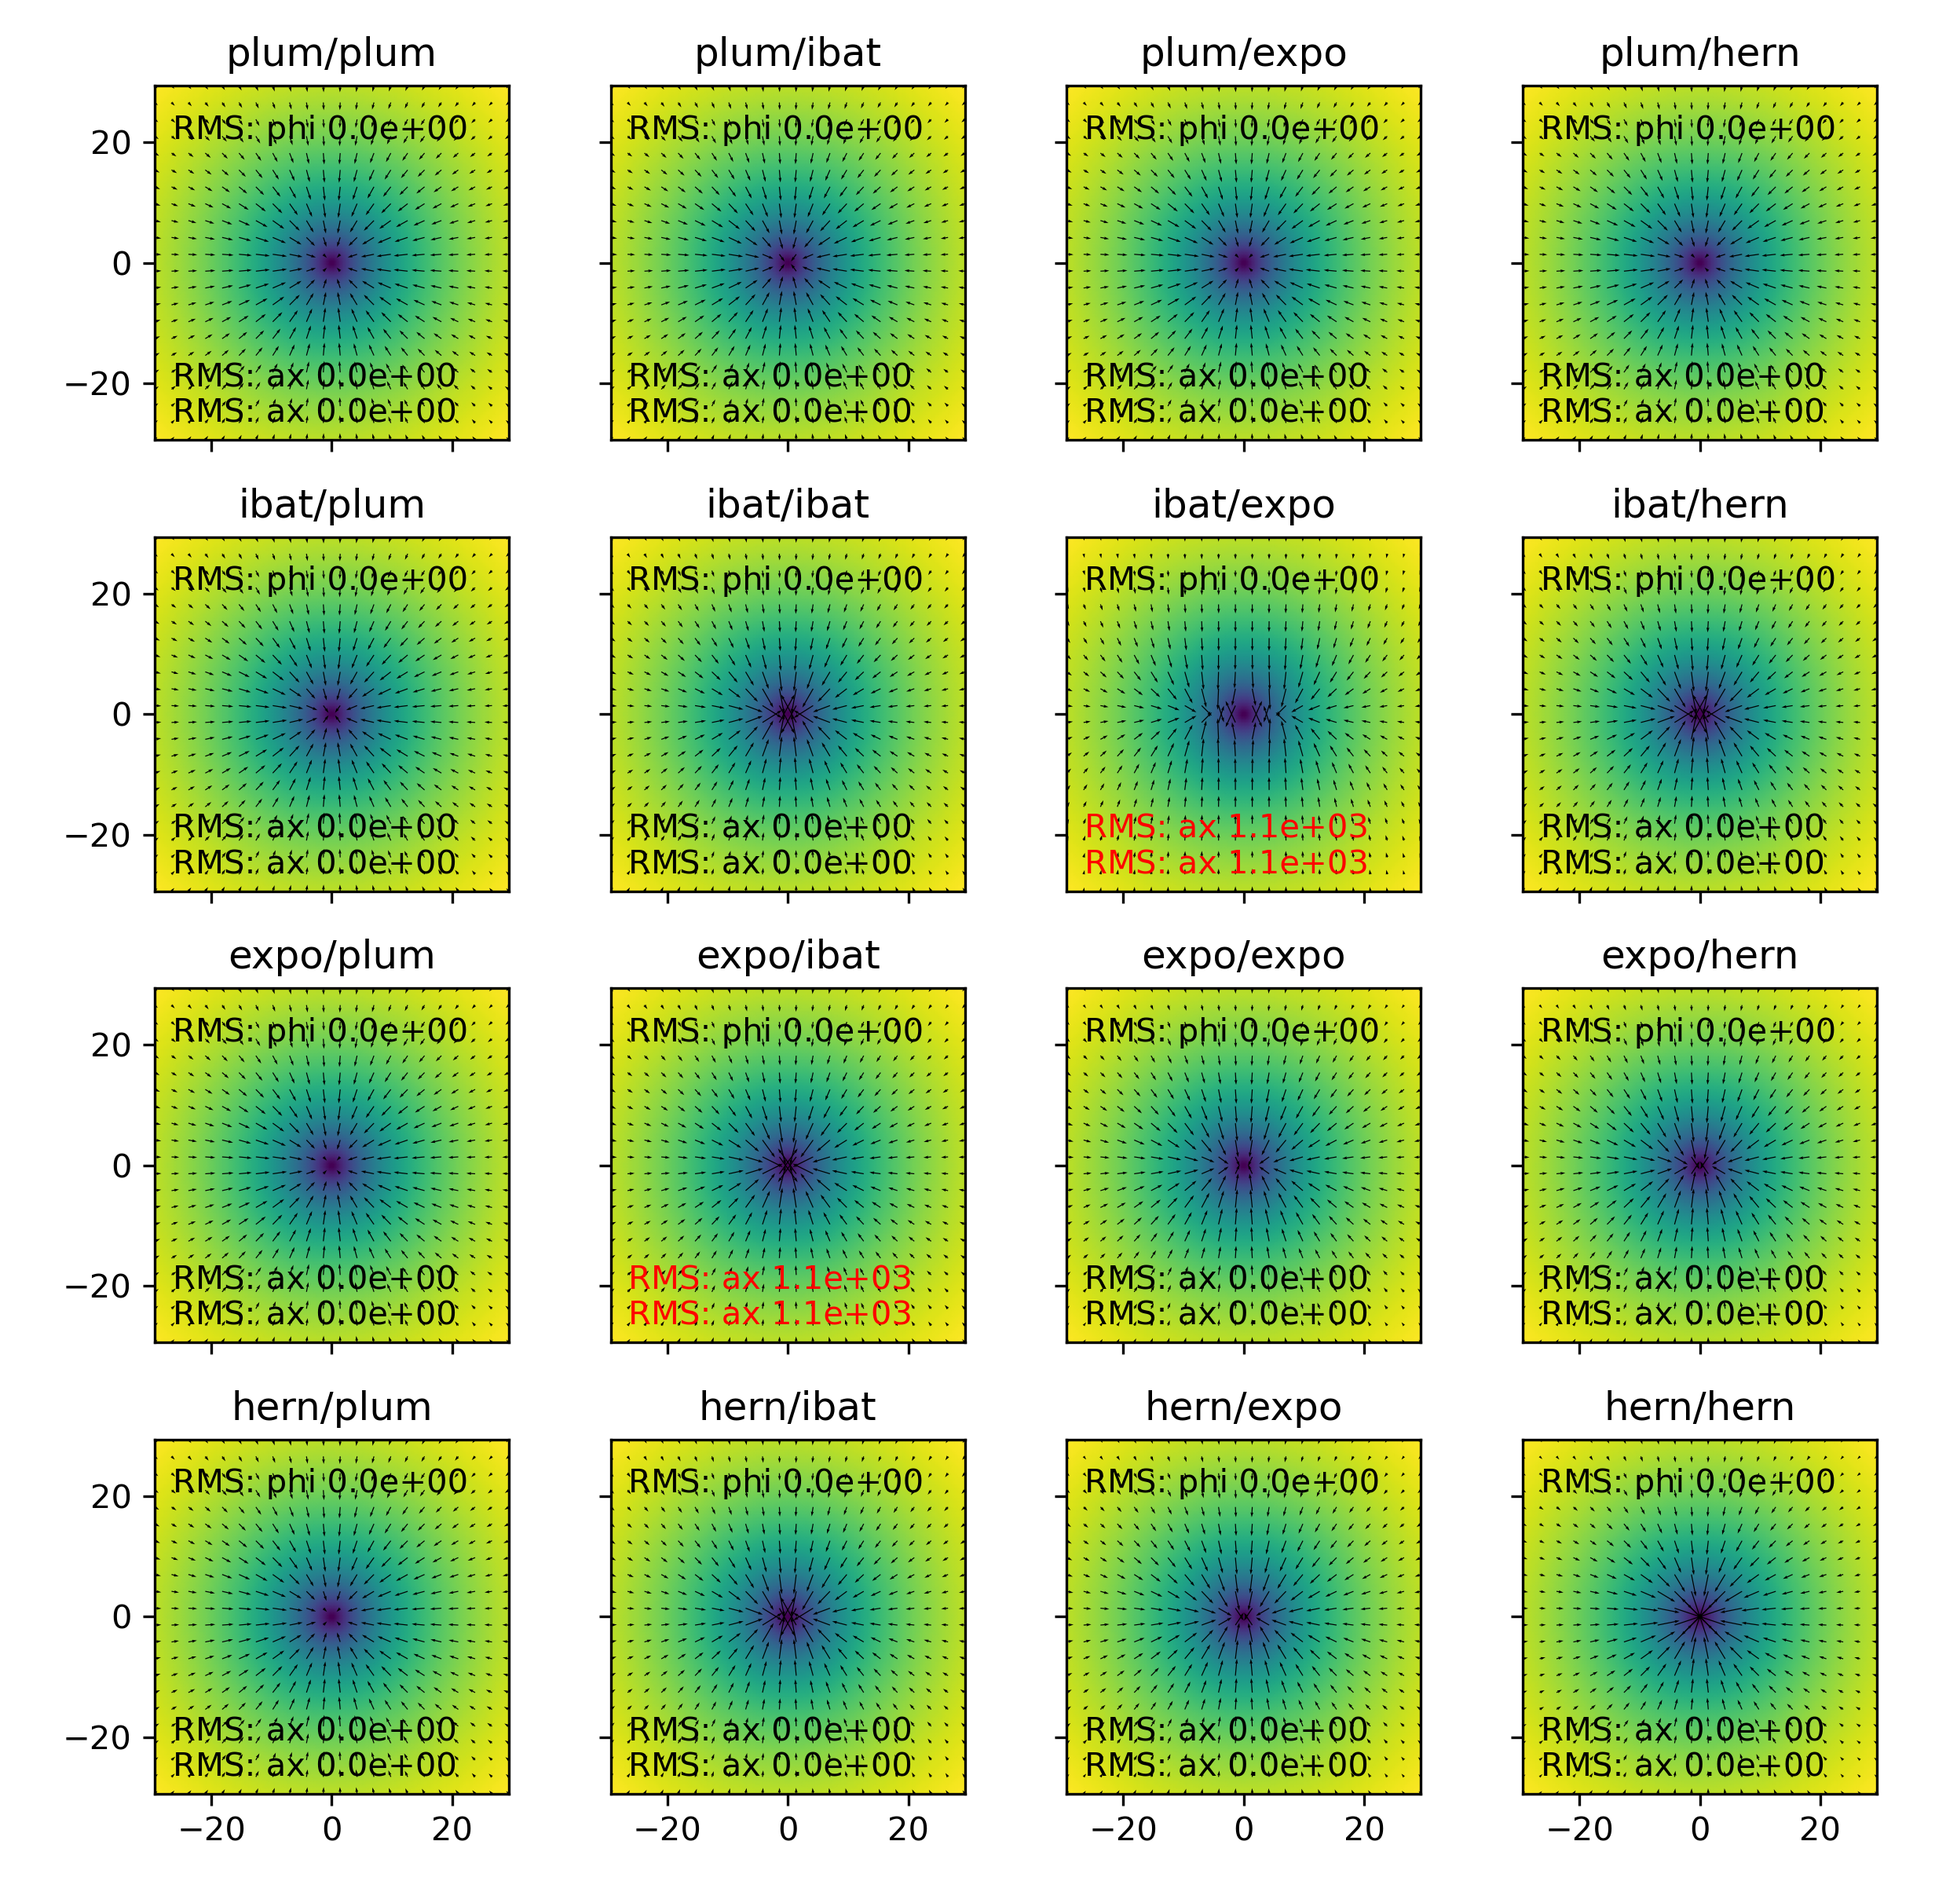
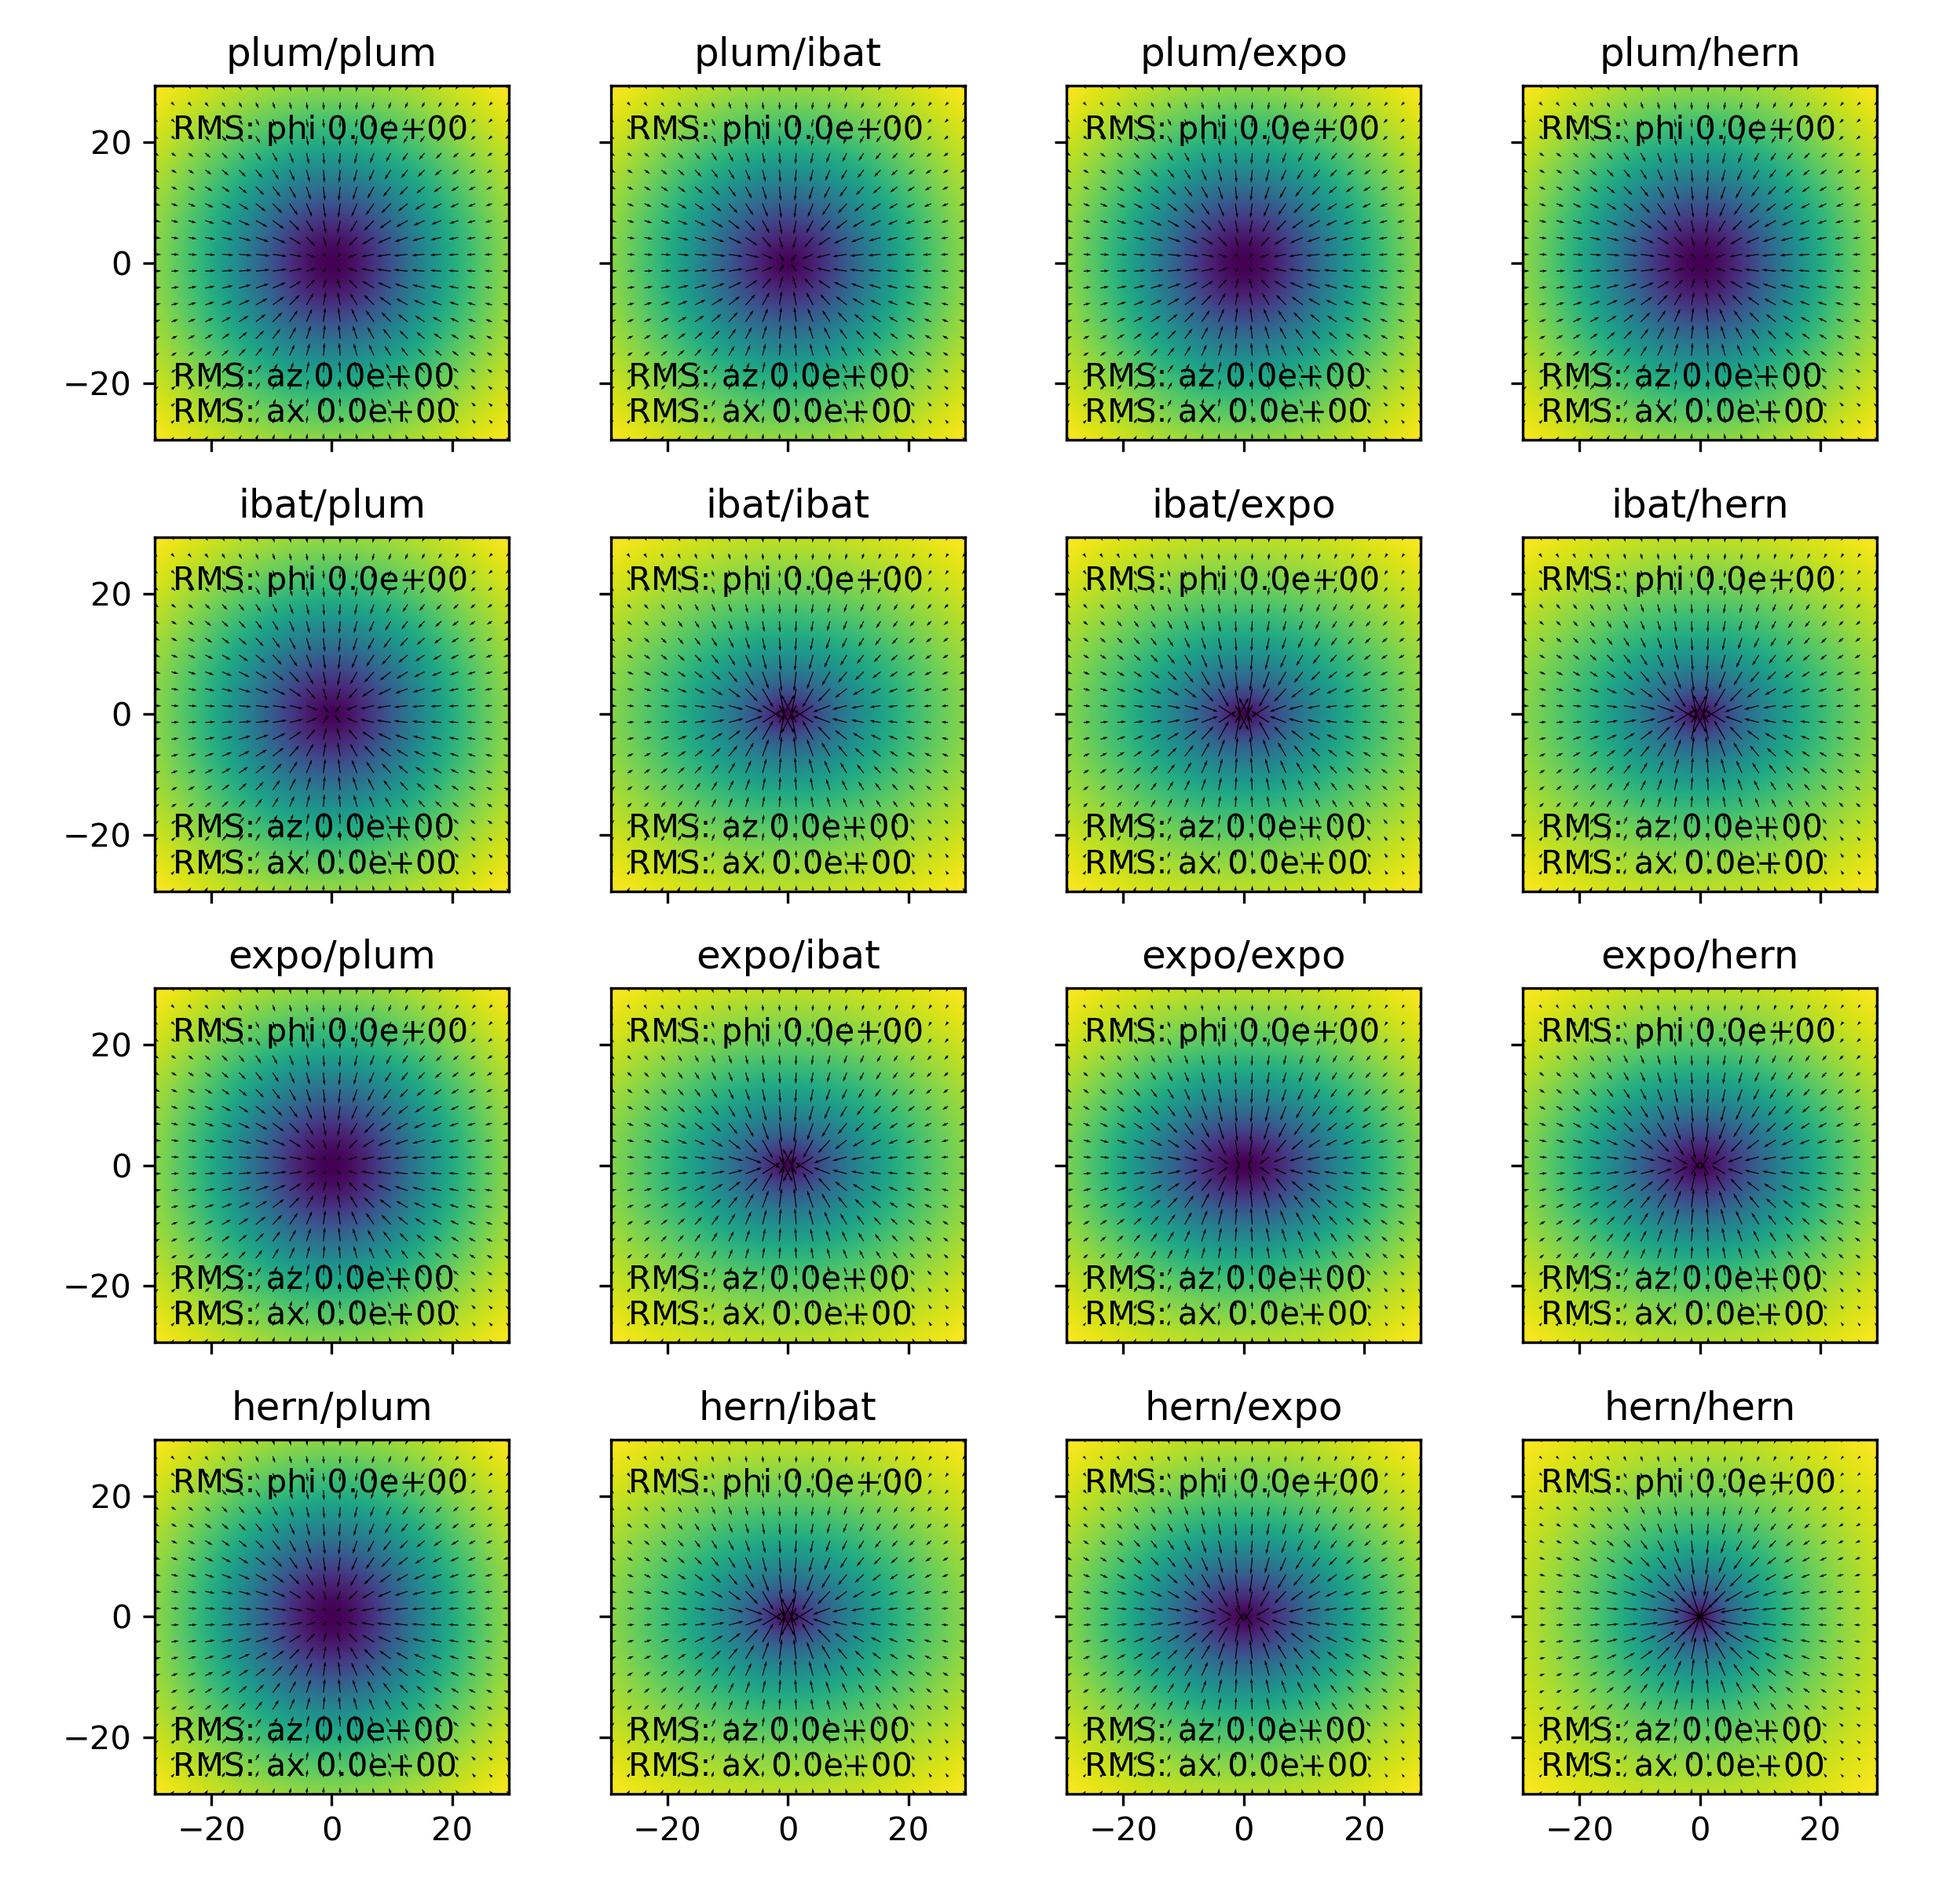
fixed spherical harmonics bug

diff --git a/TEMP/inspect_composite_BFE.py b/TEMP/inspect_composite_BFE.py
@@ -10,24 +10,9 @@ def get_one_comp(coordPHI,coordQ,comp):
     grav.addgravitycomponent(*comp)
     grav.finalizegravity()
     phi = grav.evaluategravitypotential(*coordPHI)
-    starttime = datetime.datetime.now()
     ax,ay,az=grav.evaluategravityforces(*coordQ)
-    endtime = datetime.datetime.now()
-    comptime = endtime-starttime
-    return ax,az,phi,comptime
+    return ax,az,phi
 
-def get_two_comp(coordPHI,coordQ,comp1,comp2):
-    grav = gravitymini.gravity
-    grav.cleargravity()
-    grav.addgravitycomponent(*comp1)
-    grav.addgravitycomponent(*comp2)
-    grav.finalizegravity()
-    phi = grav.evaluategravitypotential(*coordPHI)
-    starttime = datetime.datetime.now()
-    ax,_,az=grav.evaluategravityforces(*coordQ)
-    endtime = datetime.datetime.now()
-    comptime = endtime-starttime
-    return ax,az,phi,comptime
 
 
 ## set the parameters 
@@ -57,9 +42,9 @@ singlecomponents = {}
 for i in range(len(components)):
     key = "{:d}".format(i)
     singlecomponents[key] = {}
-    singlecomponents[key]['component'] = components
+    singlecomponents[key]['component'] = components[i]
     singlecomponents[key]["title"] = "{:.9s}".format(components[i][0])
-    ax,az,PHI,comptime = get_one_comp(coordsPHI,coordsQ,components[i])
+    ax,az,PHI = get_one_comp(coordsPHI,coordsQ,components[i])
     singlecomponents[key]['ax'] = ax
     singlecomponents[key]['az'] = az
     singlecomponents[key]['PHI'] = np.reshape(PHI,coordsPHI[0].shape)
@@ -84,11 +69,11 @@ for i in range(len(components)):
         permutations[key]['comp2'] = components[j]
         permutations[key]['ax'] = ax 
         permutations[key]['az'] = az
-        permutations[key]['phi'] = np.reshape(PHI,X.shape)
+        permutations[key]['phi'] = np.reshape(phi, X.shape)
         permutations[key]["ax_c"] = ax_c
         permutations[key]["az_c"] = az_c
         permutations[key]["ax_cs"] = ax_cs
-        permutations[key]["ax_cs"] = az_cs
+        permutations[key]["az_cs"] = az_cs
 
 # inspect the differences for order independence
 RMS = lambda arg1, arg2 : np.sqrt(np.mean((arg1.flatten()-arg2.flatten())**2) )
@@ -119,7 +104,7 @@ for i in range(len(components)):
         axis[i,j].text( 0.05, 0.05, "RMS: ax {:.1e}".format(permutations[key]["axrms"]),transform=axis[i,j].transAxes,color=textcolor)
         if permutations[key]["azrms"] > 0: textcolor="red"
         else: textcolor="black"
-        axis[i,j].text( 0.05, 0.15, "RMS: ax {:.1e}".format(permutations[key]["azrms"]),transform=axis[i,j].transAxes,color=textcolor)
+        axis[i,j].text( 0.05, 0.15, "RMS: az {:.1e}".format(permutations[key]["azrms"]),transform=axis[i,j].transAxes,color=textcolor)
         if permutations[key]["phirms"] > 0: textcolor="red"
         else: textcolor="black"
         axis[i,j].text( 0.05, 0.85, "RMS: phi {:.1e}".format(permutations[key]["phirms"]),transform=axis[i,j].transAxes,color=textcolor)

diff --git a/TEMP/test_gravitymini_smoke.py b/TEMP/test_gravitymini_smoke.py
@@ -258,3 +258,37 @@ def test_interleaved_components_preserve_sh_slot_mapping_order():
 
     assert not np.allclose(phi0, phi2, rtol=1e-12, atol=1e-12)
     assert not np.allclose(phi1, phi2, rtol=1e-12, atol=1e-12)
+
+
+def test_ibata_exponential_force_components_match_independent_components():
+    g = gravitymini.gravity
+
+    x = np.array([1.0, 2.0, 3.0], dtype=float)
+    y = np.array([0.0, 0.1, 0.0], dtype=float)
+    z = np.array([0.2, 0.0, -0.3], dtype=float)
+
+    ibata = [1.0, 1.0, 100.0, 0.8, 1.4, 3.0]
+    expo = [1.0, 1.0, 1.0]
+
+    g.cleargravity()
+    g.addgravitycomponent("ibata2024halo", ibata)
+    g.finalizegravity()
+    ax_i, ay_i, az_i = g.evaluategravityforces(x, y, z)
+
+    g.cleargravity()
+    g.addgravitycomponent("exponentialoblatehalo", expo)
+    g.finalizegravity()
+    ax_e, ay_e, az_e = g.evaluategravityforces(x, y, z)
+
+    g.cleargravity()
+    g.addgravitycomponent("ibata2024halo", ibata)
+    g.addgravitycomponent("exponentialoblatehalo", expo)
+    g.finalizegravity()
+    ax_c, ay_c, az_c = g.evaluategravityforcecomponents(x, y, z)
+
+    np.testing.assert_allclose(ax_c[0, :], ax_i, rtol=1e-12, atol=1e-12)
+    np.testing.assert_allclose(ay_c[0, :], ay_i, rtol=1e-12, atol=1e-12)
+    np.testing.assert_allclose(az_c[0, :], az_i, rtol=1e-12, atol=1e-12)
+    np.testing.assert_allclose(ax_c[1, :], ax_e, rtol=1e-12, atol=1e-12)
+    np.testing.assert_allclose(ay_c[1, :], ay_e, rtol=1e-12, atol=1e-12)
+    np.testing.assert_allclose(az_c[1, :], az_e, rtol=1e-12, atol=1e-12)
